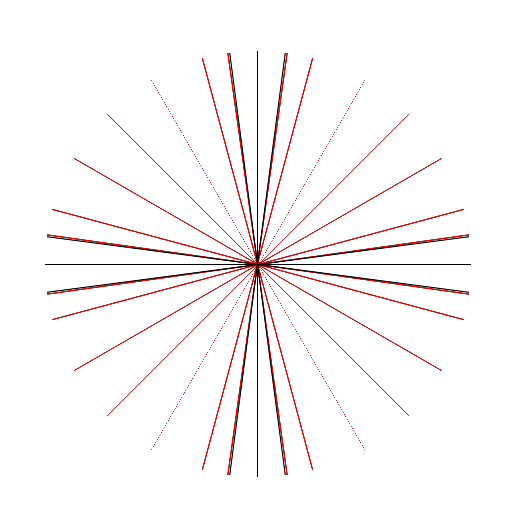
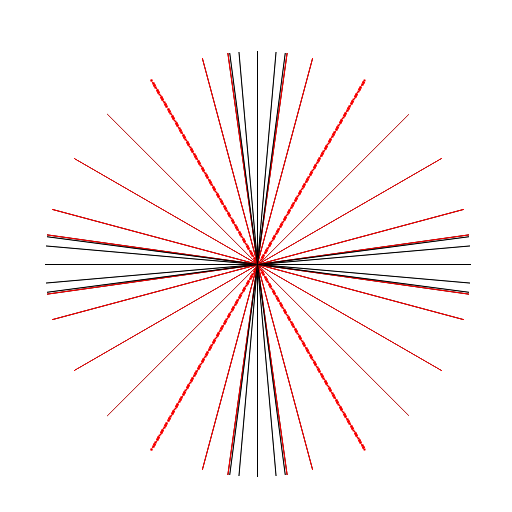
Calibration sufficiently precise

diff --git a/automatic_lens_distortion_filtering.html b/automatic_lens_distortion_filtering.html
@@ -201,6 +201,15 @@
         // Kernel is vertically oversampled on left/right
         vec2 p2r = pass_TextureCoord + du - (2.0 * dv); // Texture texel on the top of position [2]
         vec2 p2l = pass_TextureCoord - du - (2.0 * dv); // ditto on the top of 0
+
+        vec2 p3r = pass_TextureCoord + du - (3.0 * dv); // Texture texel on the top of position [2]
+        vec2 p3l = pass_TextureCoord - du - (3.0 * dv); // ditto on the top of 0
+
+        vec2 p4r = pass_TextureCoord + du - (4.0 * dv); // Texture texel on the top of position [2]
+        vec2 p4l = pass_TextureCoord - du - (4.0 * dv); // ditto on the top of 0
+
+        vec2 p5r = pass_TextureCoord + du - (5.0 * dv); // Texture texel on the top of position [2]
+        vec2 p5l = pass_TextureCoord - du - (5.0 * dv); // ditto on the top of 0
         
         /*if(isOutOfTexture(p1) || isOutOfTexture(p2)) {
           // Bail out (the response will be 0.0 for this angle)
@@ -211,14 +220,23 @@
         vec4 p1l_rgba = texture2D(input_texture, p1l);
         vec4 p2r_rgba = texture2D(input_texture, p2r);
         vec4 p2l_rgba = texture2D(input_texture, p2l);
+        vec4 p3r_rgba = texture2D(input_texture, p3r);
+        vec4 p3l_rgba = texture2D(input_texture, p3l);
+        vec4 p4r_rgba = texture2D(input_texture, p4r);
+        vec4 p4l_rgba = texture2D(input_texture, p4l);
+        vec4 p5r_rgba = texture2D(input_texture, p5r);
+        vec4 p5l_rgba = texture2D(input_texture, p5l);
 
         /*if(isOnTextureBorder(p1_rgba) || isOnTextureBorder(p2_rgba)) {
           // Bail out (the response will be 0.0 for this angle)
           continue;
         }*/
 
-        result += abs(p1r_rgba.xyz - p1l_rgba.xyz);
-        result += abs(p2r_rgba.xyz - p2l_rgba.xyz);
+        result += abs(p1r_rgba.xyz - p1l_rgba.xyz) * p1r_rgba.a * p1l_rgba.a;
+        result += abs(p2r_rgba.xyz - p2l_rgba.xyz) * p2r_rgba.a * p2l_rgba.a;
+        result += abs(p3r_rgba.xyz - p3l_rgba.xyz) * p3r_rgba.a * p3l_rgba.a;
+        result += abs(p4r_rgba.xyz - p4l_rgba.xyz) * p4r_rgba.a * p4l_rgba.a;
+        result += abs(p5r_rgba.xyz - p5l_rgba.xyz) * p5r_rgba.a * p5l_rgba.a;
 
         // << Row 2 >>
 
@@ -238,9 +256,9 @@
           continue;
         }*/
 
-        result += 1.5 * abs(p1r_rgba.xyz - p1l_rgba.xyz);
+        result += 1.5 * abs(p1r_rgba.xyz - p1l_rgba.xyz) * p1r_rgba.a * p1l_rgba.a;
 
-        // << Row 2 >>
+        // << Row 3 >>
 
         p1r = pass_TextureCoord + du + dv; // Texture texel to be multiplied with kernel position 8
         p1l = pass_TextureCoord - du + dv; // ditto with ker pos 6
@@ -248,7 +266,17 @@
         // Kernel is vertically oversampled on left/right
         p2r = pass_TextureCoord + du + (2.0 * dv); // Texture texel on the bottom of position [2]
         p2l = pass_TextureCoord - du + (2.0 * dv); // ditto on the bottom of [0]
-        
+
+        p3r = pass_TextureCoord + du + (3.0 * dv); // Texture texel on the bottom of position [2]
+        p3l = pass_TextureCoord - du + (3.0 * dv); // ditto on the bottom of [0]
+
+        p4r = pass_TextureCoord + du + (4.0 * dv); // Texture texel on the bottom of position [2]
+        p4l = pass_TextureCoord - du + (4.0 * dv); // ditto on the bottom of [0]
+      
+        p5r = pass_TextureCoord + du + (5.0 * dv); // Texture texel on the bottom of position [2]
+        p5l = pass_TextureCoord - du + (5.0 * dv); // ditto on the bottom of [0]    
+
+
         /*if(isOutOfTexture(p1) || isOutOfTexture(p2)) {
           // Bail out (the response will be 0.0 for this angle)
           continue;
@@ -258,6 +286,12 @@
         p1l_rgba = texture2D(input_texture, p1l);
         p2r_rgba = texture2D(input_texture, p2r);
         p2l_rgba = texture2D(input_texture, p2l);
+        p3r_rgba = texture2D(input_texture, p3r);
+        p3l_rgba = texture2D(input_texture, p3l);
+        p4r_rgba = texture2D(input_texture, p4r);
+        p4l_rgba = texture2D(input_texture, p4l);
+        p5r_rgba = texture2D(input_texture, p5r);
+        p5l_rgba = texture2D(input_texture, p5l);
         
         /*if(isOnTextureBorder(p1_rgba) || isOnTextureBorder(p2_rgba)) {
           // Bail out (the response will be 0.0 for this angle)
@@ -266,13 +300,16 @@
 
         result += abs(p1r_rgba.xyz - p1l_rgba.xyz) * p1r_rgba.a * p1l_rgba.a;
         result += abs(p2r_rgba.xyz - p2l_rgba.xyz) * p2r_rgba.a * p2l_rgba.a;
+        result += abs(p3r_rgba.xyz - p3l_rgba.xyz) * p3r_rgba.a * p3l_rgba.a;
+        result += abs(p4r_rgba.xyz - p4l_rgba.xyz) * p4r_rgba.a * p4l_rgba.a;
+        result += abs(p5r_rgba.xyz - p5l_rgba.xyz) * p5r_rgba.a * p5l_rgba.a;
 
         // Sum all responses before thresholding and normalize it in the
         // range [0.0;1.0] (max is 10.5)
-        float total_response = abs(result.x + result.y + result.z) / 10.5;
+        float total_response = abs(result.x + result.y + result.z) / 33.5;
 
         // Finally store the final response for this angle
-        float threshold = 0.6;
+        float threshold = 0.57;
         if(i == 0) {
           angle_responses[0] = applyThreshold(total_response, threshold); //< 0
         } else if(i == 1) {
@@ -586,7 +623,7 @@
         ctx = WebGLDebugUtils.makeDebugContext(gl.bindTexture(gl.TEXTURE_2D, null));
         textureIsSafeToRender = true;
       }      
-      textureId.image.src = "assets/calibration_bins.png";
+      textureId.image.src = "assets/calibration_bins_ok.png";
       imageDimensions = new Float32Array([textureId.image.width, textureId.image.height]);
 
       // ~-~-~-~-~-~- Undistorted texture ~-~-~-~-~-~-
